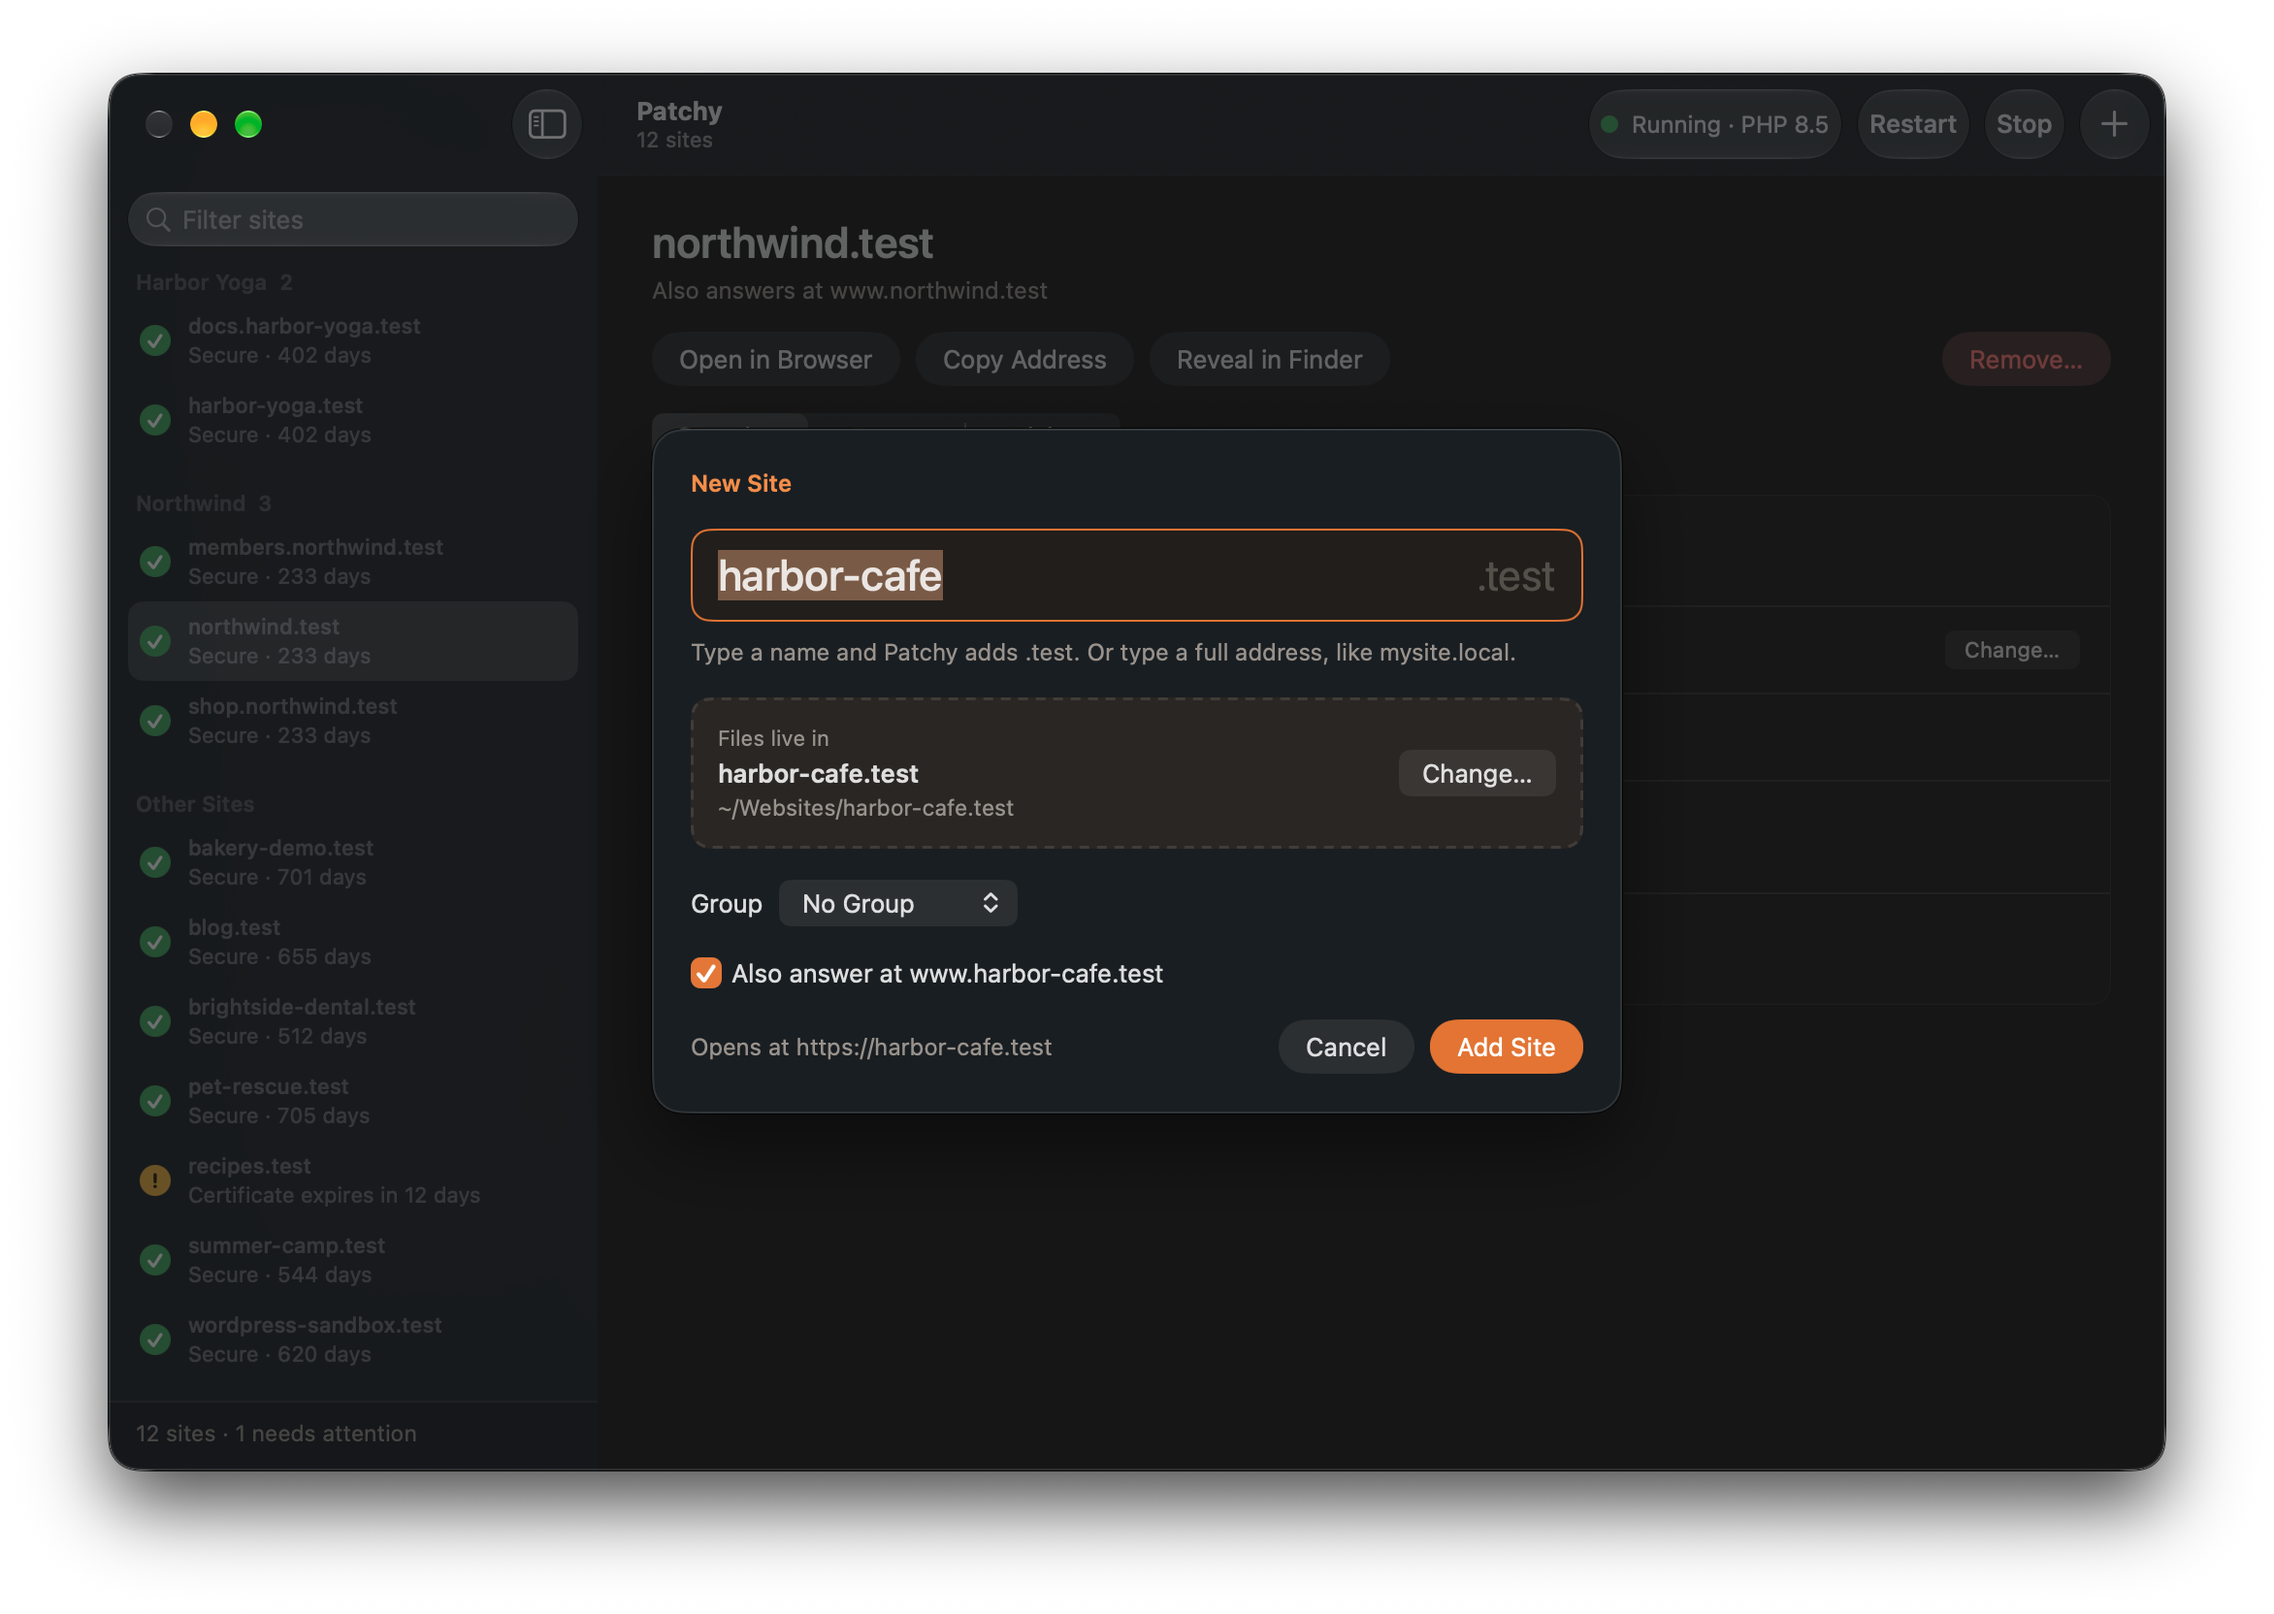
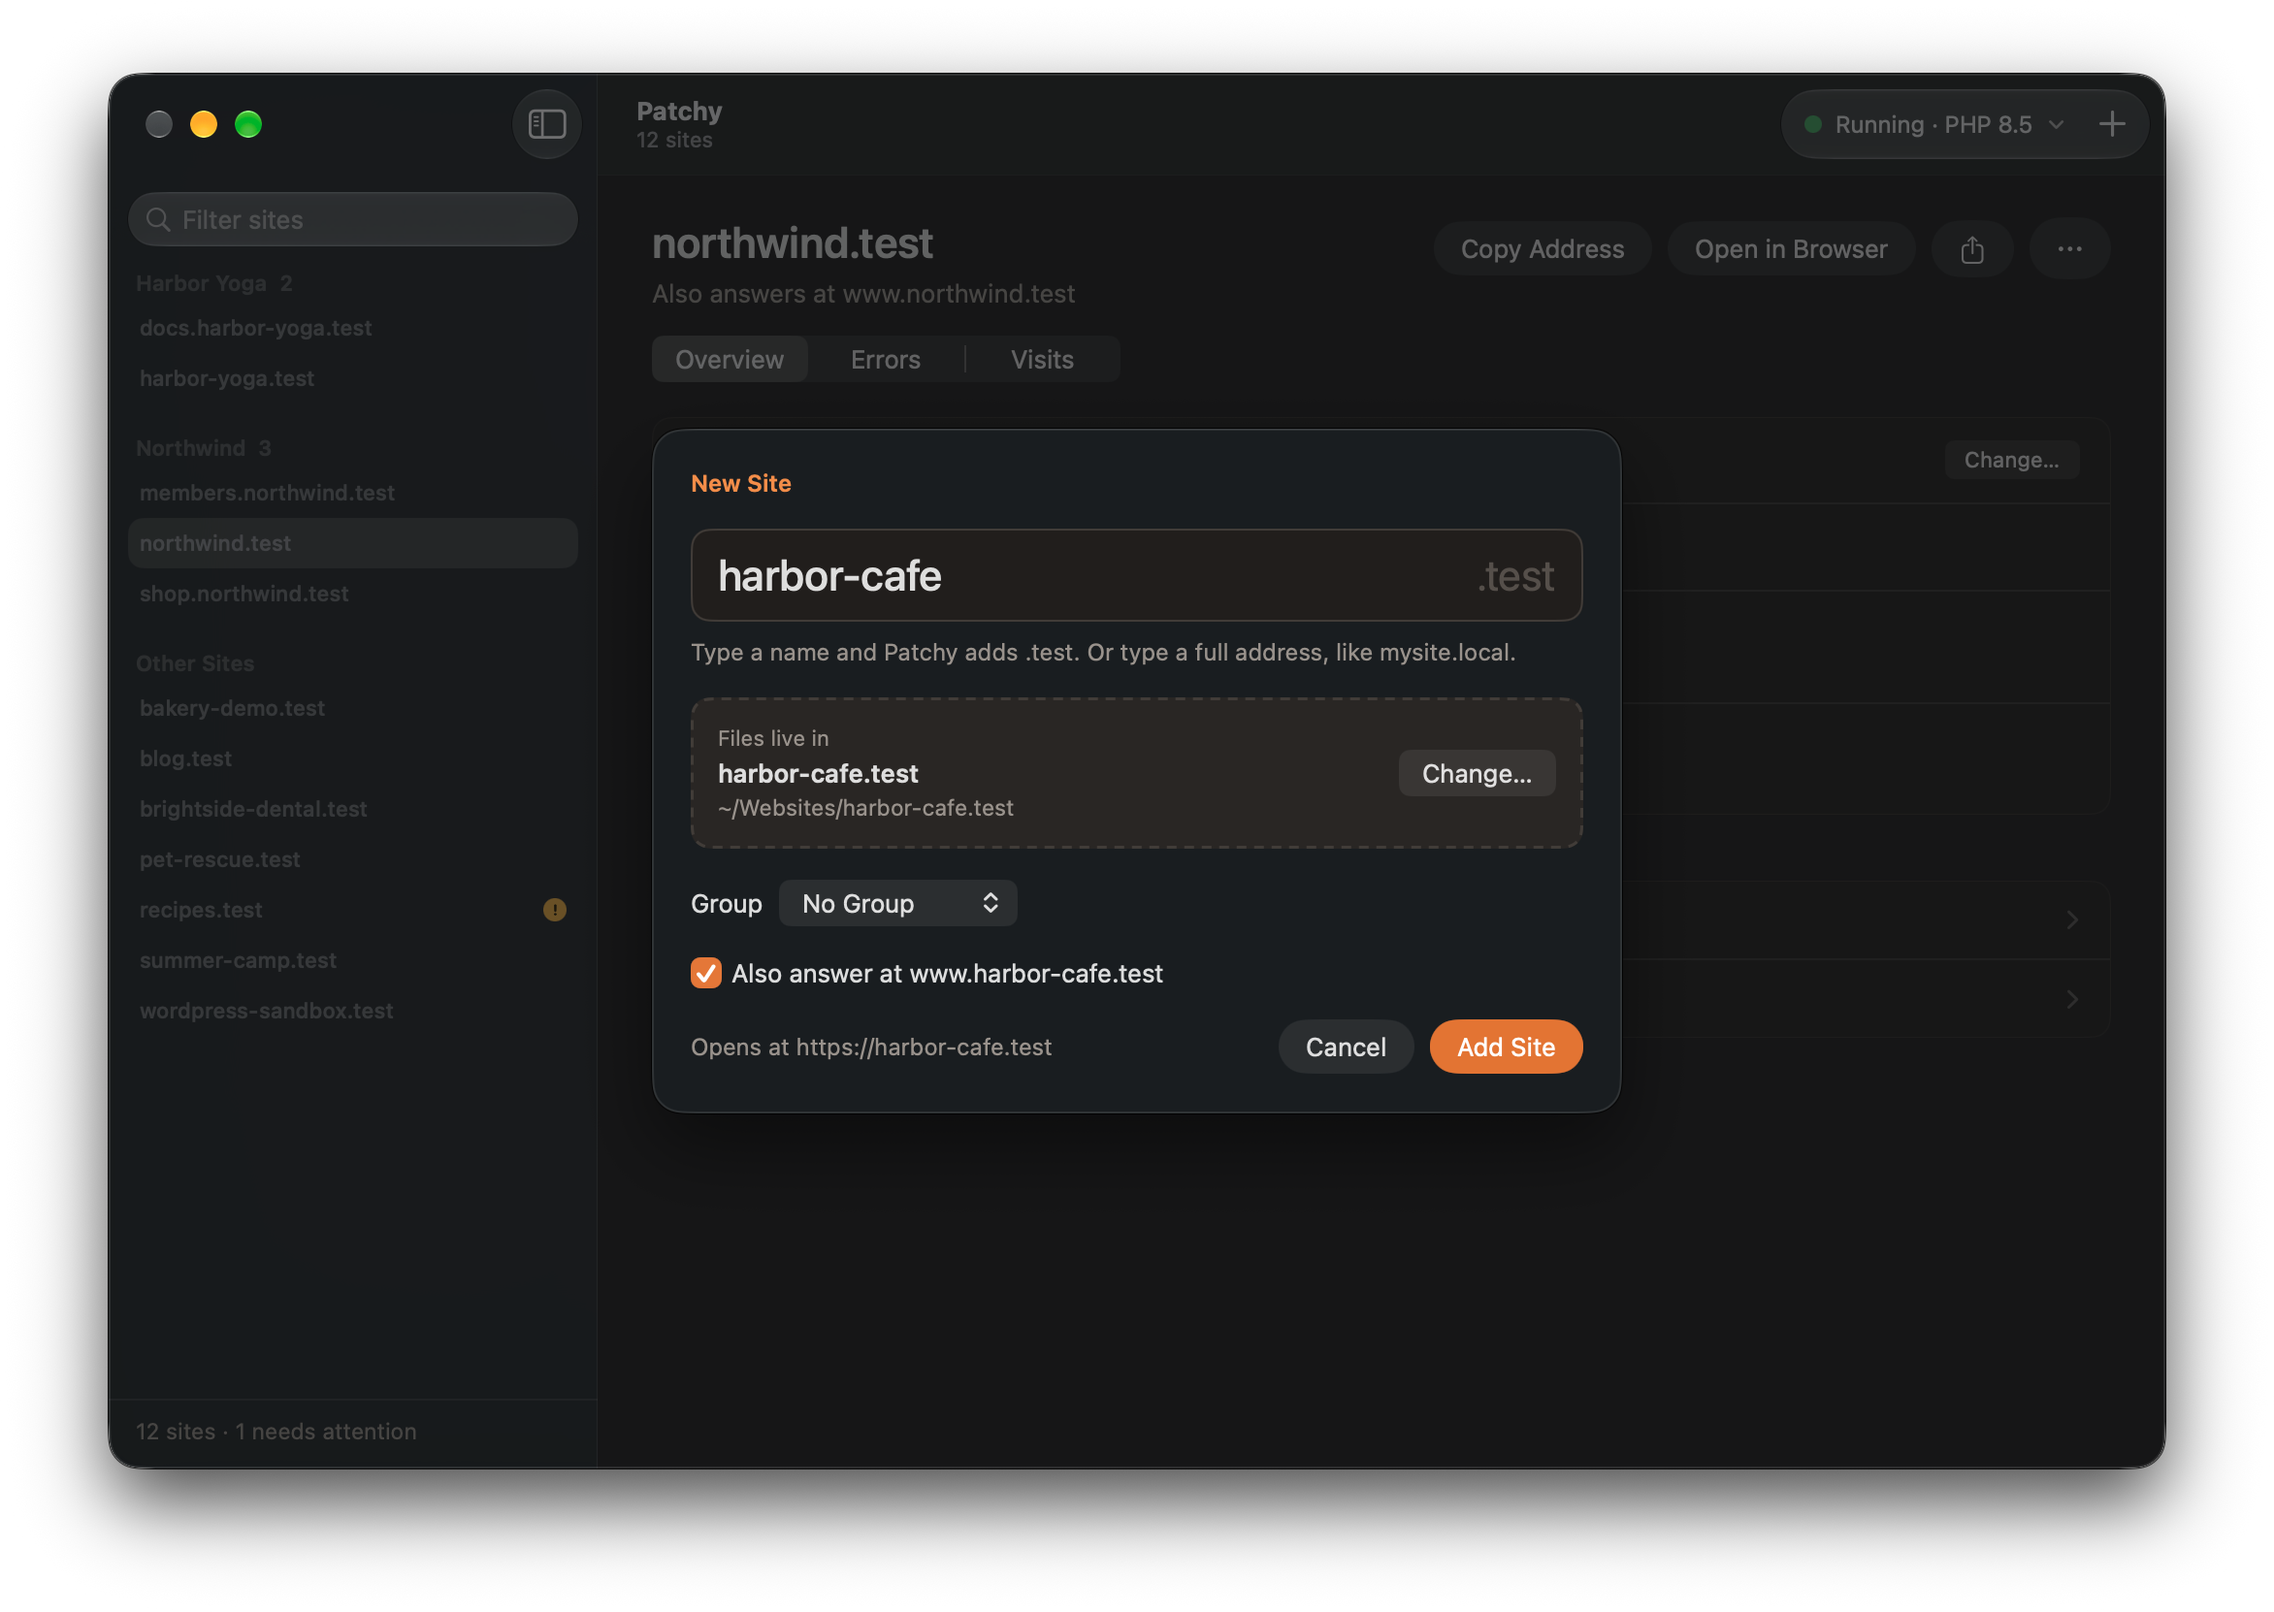
Release notes and README screenshots for 1.4.0

diff --git a/docs/release-notes/1.4.0.md b/docs/release-notes/1.4.0.md
@@ -1,0 +1,22 @@
+### A tidier site page
+
+- **One row of actions** beside the site's name: **Copy Address**, **Open in Browser**, **Share**, and a **…** menu with Reveal in Finder and Remove Site.
+- **Today at a glance.** Each site's page now counts today's errors and visits. Click either one to jump straight to that log.
+- **A more compact sidebar.** Each site takes one line, and a mark appears only beside sites that need attention. Certificate details live on the site's page.
+
+### Server controls in one menu
+
+Click **Running · PHP 8.5** in the toolbar to restart or stop the server. When more than one version of PHP is installed, you can also switch between them there.
+
+### Every way to share
+
+Patchy 1.4.0 adds new ways to share a site, and Share now offers all of them once you've connected your own domain:
+
+- **Your site's own address** on your domain, open to anyone or **with a password**.
+- **Change Address…** picks the name before your domain, such as `preview.example.com`. Patchy remembers it for next time.
+- **A random address** on your domain that is new each time, open or with a password.
+- **A public link** on trycloudflare.com, even when a domain is connected.
+
+To stop using your domain, go to **Settings › General** and choose **Disconnect**.
+
+Made for **Patchy 1.4.0**. Update Patchy first, in Terminal: `brew upgrade joeworkman/patchy/patchy`

diff --git a/README.md b/README.md
@@ -15,7 +15,7 @@ A native macOS window and menu bar item for [Patchy](https://github.com/joeworkm
 <picture>
   <source media="(prefers-color-scheme: dark)" srcset="docs/screenshots/main-window-dark.png">
   <source media="(prefers-color-scheme: light)" srcset="docs/screenshots/main-window-light.png">
-  <img src="docs/screenshots/main-window-dark.png" width="760" alt="Patchy UI's main window. The sidebar lists sites in groups, each with a status mark; the selected site shows its address, folder, group, secure connection and whether it is reachable.">
+  <img src="docs/screenshots/main-window-dark.png" width="760" alt="Patchy UI's main window. The sidebar lists sites in groups, with a mark beside any that need attention; the selected site shows Copy Address, Open in Browser, Share and More buttons, then its folder, group, secure connection, whether it is reachable, and today's errors and visits.">
 </picture>
 
 </div>
